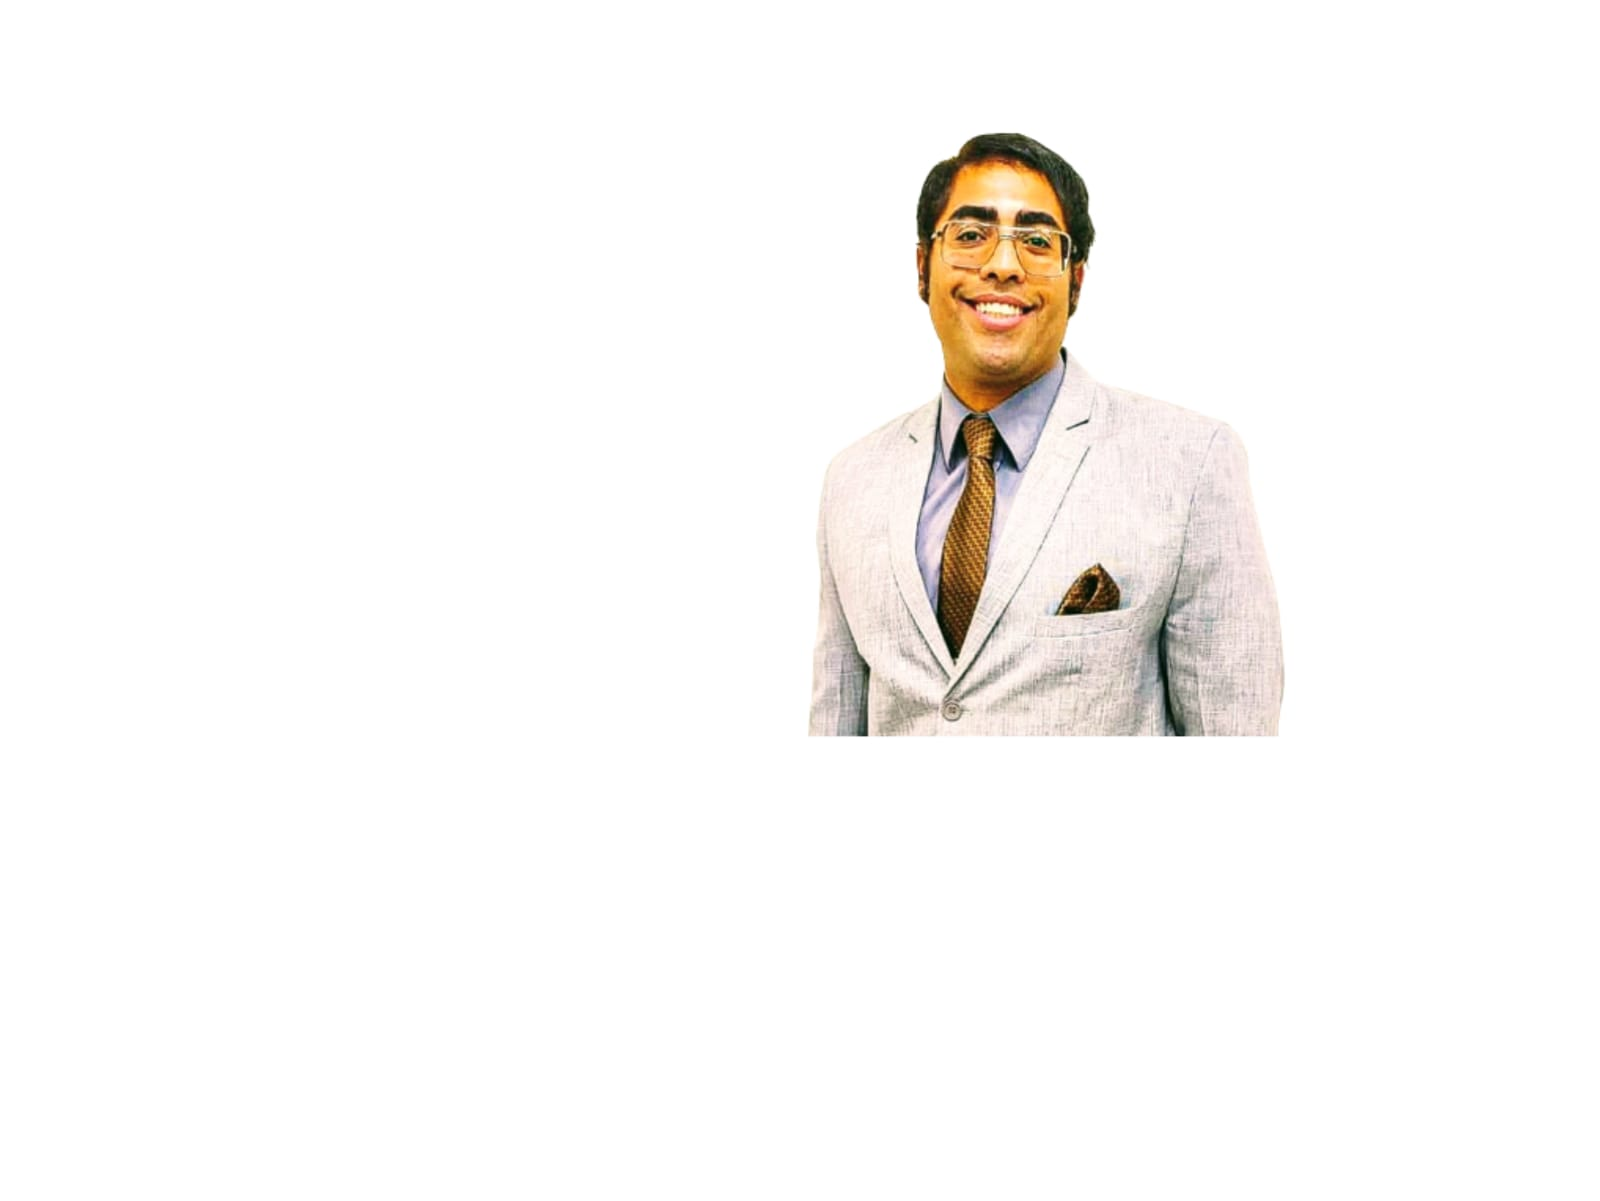
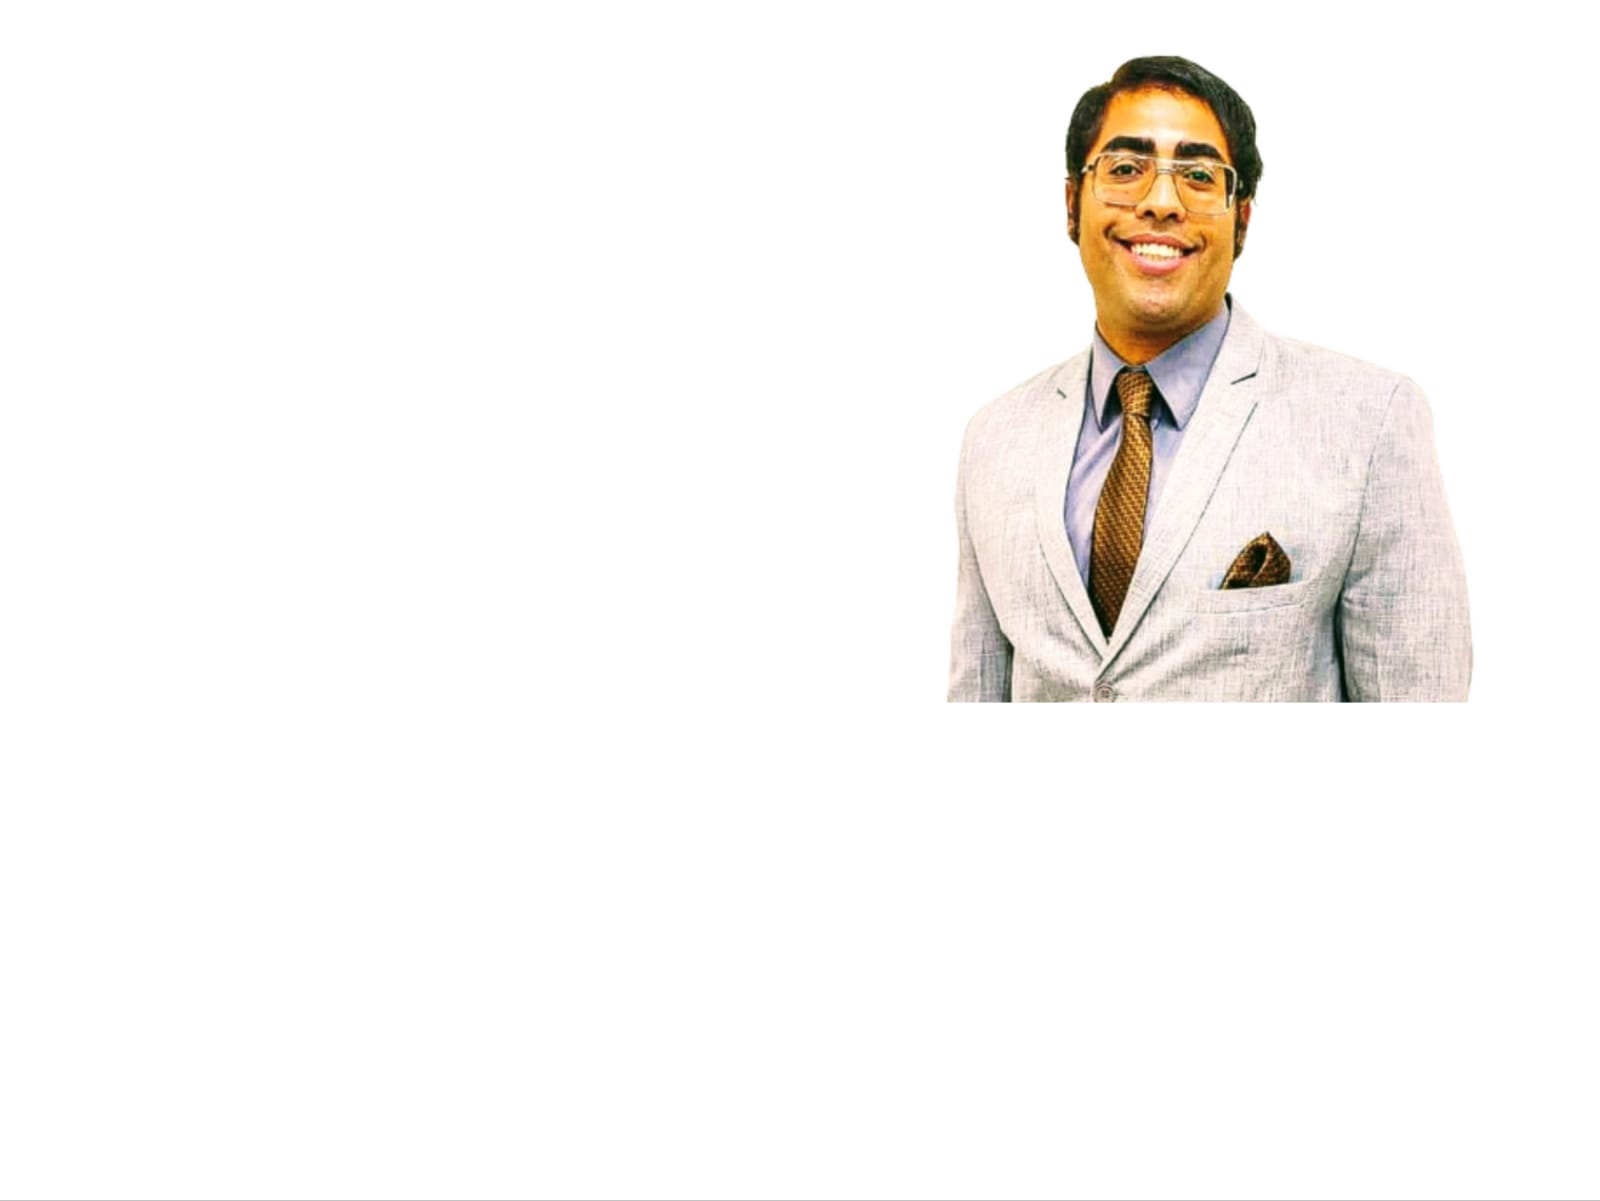
commit

Changed region(s): [[0.5, 0.0308, 0.9375, 0.6162]]

diff --git a/sobremim.html b/sobremim.html
@@ -20,7 +20,7 @@
             <div class="about-col">
 
                 <div class="img-col">
-                    <img src="imagens/perfil2.jpeg" alt="">
+                    <img src="imagens/perfil1.jpeg" alt="">
                 </div>
 
                 <div class="info-col">
